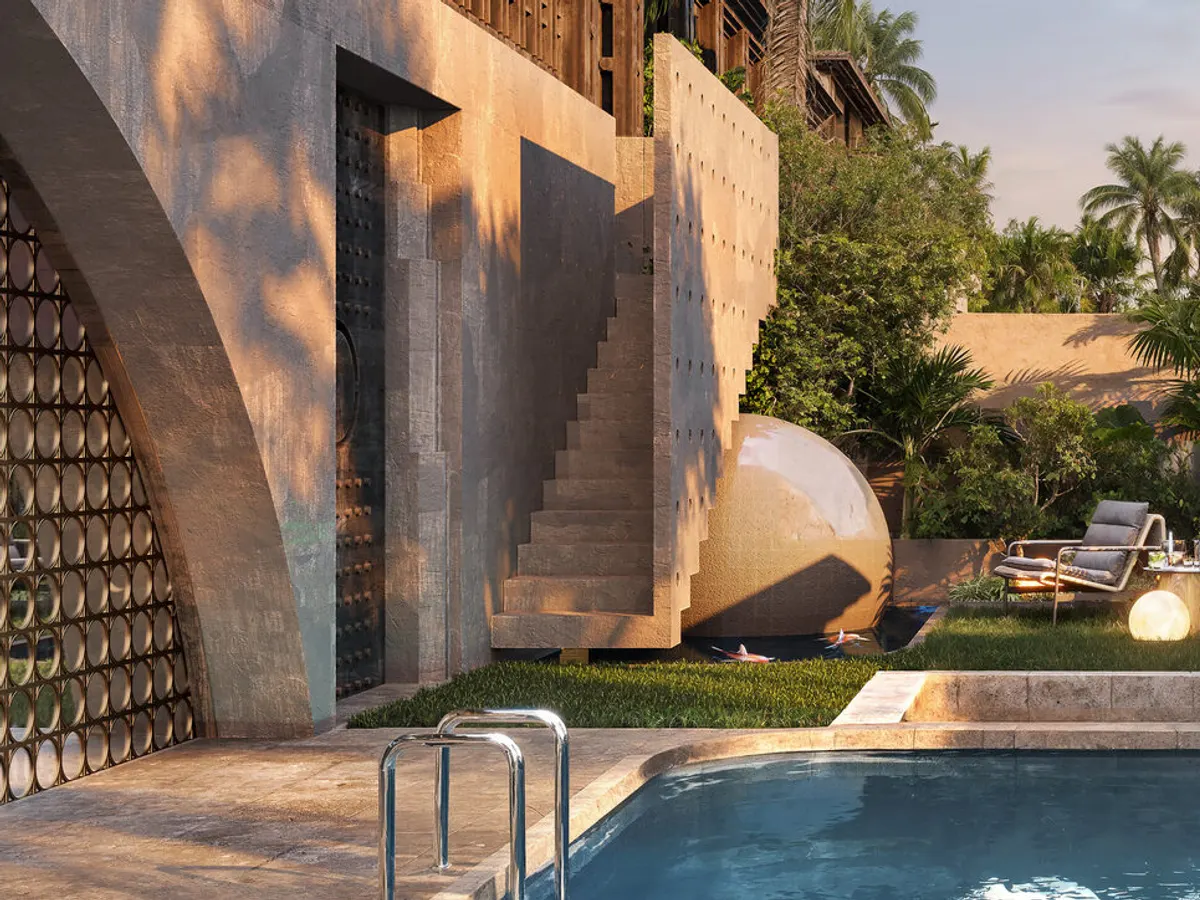
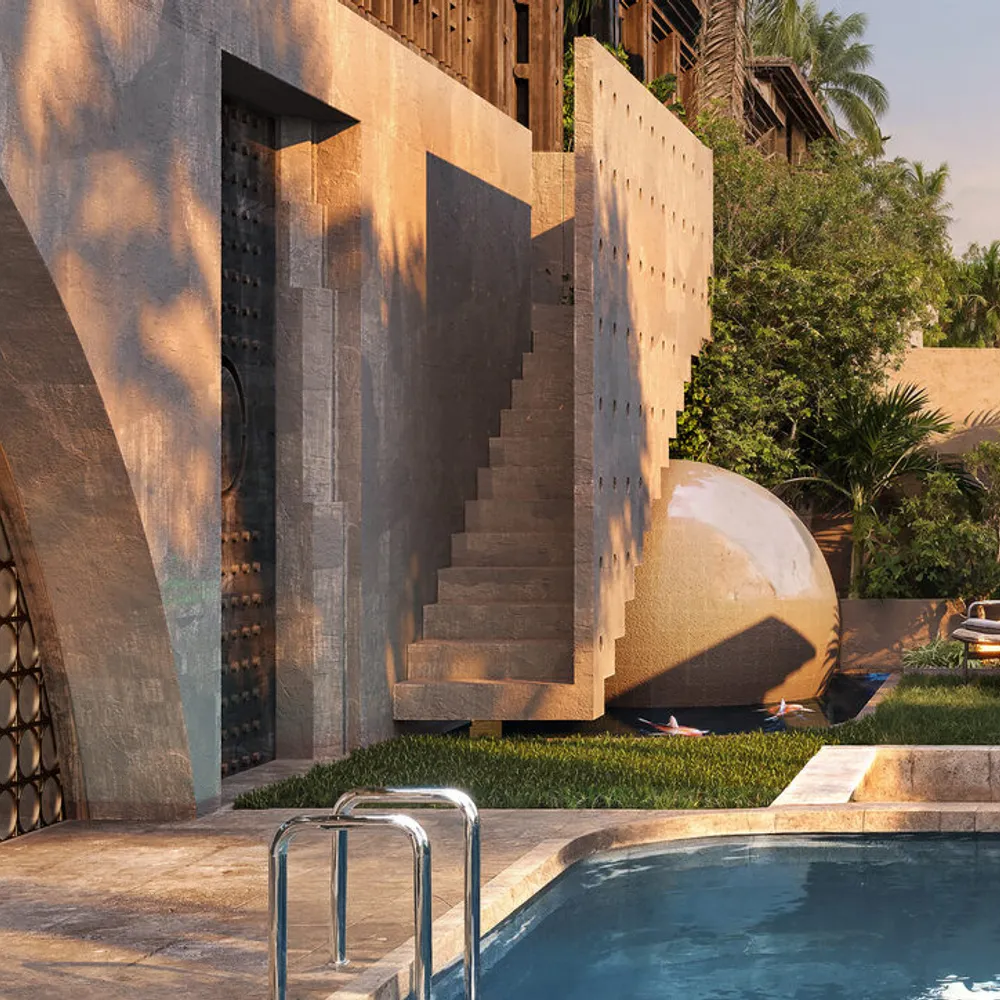
feat(home): bigger listing photos, bullet points, Enquire button, The Ease render

diff --git a/src/styles/global.css b/src/styles/global.css
@@ -527,15 +527,10 @@ a:focus-visible{outline:2px solid rgba(180,80,42,0.55);outline-offset:3px;border
   transition:transform .35s var(--ease),border-color .35s,box-shadow .35s;
 }
 .listing-card:hover{transform:translateY(-8px);border-color:rgba(180,80,42,0.4);box-shadow:0 28px 56px -20px rgba(122,82,32,0.45)}
-.listing-media{position:relative;aspect-ratio:4/3;overflow:hidden;background:#3d1c10}
+.listing-media{position:relative;aspect-ratio:1/1;overflow:hidden;background:#3d1c10}
 .listing-media img{width:100%;height:100%;object-fit:cover;transition:transform .6s var(--ease)}
 .listing-card:hover .listing-media img{transform:scale(1.05)}
 .listing-media::after{content:"";position:absolute;inset:0;background:linear-gradient(to top,rgba(30,21,9,0.5),transparent 45%);pointer-events:none}
-.listing-media-empty{
-  width:100%;height:100%;display:flex;align-items:center;justify-content:center;
-  background:linear-gradient(135deg,#6b3624 0%,#5c2e1f 50%,#3d1c10 100%);
-}
-.listing-media-empty span{font-family:var(--font-display);font-size:2rem;color:rgba(232,201,126,0.55)}
 .listing-rank{
   position:absolute;top:14px;left:14px;z-index:1;
   font-family:var(--font-display);font-weight:600;font-size:1rem;
@@ -547,17 +542,20 @@ a:focus-visible{outline:2px solid rgba(180,80,42,0.55);outline-offset:3px;border
   font-size:.72rem;font-weight:600;letter-spacing:.18em;text-transform:uppercase;color:#FFF8EC;
 }
 .listing-body{display:flex;flex-direction:column;gap:10px;padding:22px 22px 24px;flex:1}
-.listing-dev{font-size:.75rem;font-weight:600;letter-spacing:.14em;text-transform:uppercase;color:var(--accent)}
 .listing-body h3{font-size:1.25rem}
 .listing-price{font-family:var(--font-display);font-size:1.5rem;font-weight:600;color:var(--terra-deep);line-height:1.2}
 .listing-price span{display:block;font-family:var(--font-body);font-size:.78rem;font-weight:500;color:var(--text-muted);margin-top:2px}
 .listing-specs{list-style:none;display:flex;flex-wrap:wrap;gap:6px}
 .listing-specs li{font-size:.74rem;padding:4px 10px;border-radius:999px;background:rgba(122,92,52,0.08);border:1px solid var(--glass-border);color:var(--text)}
-.listing-take{font-size:.84rem;color:var(--text-muted);line-height:1.55;flex:1}
-.listing-take strong{color:var(--text);font-weight:600}
-.listing-ask{display:inline-flex;align-items:center;gap:8px;font-weight:600;font-size:.9rem;color:var(--terra);margin-top:4px}
-.listing-ask svg{transition:transform .25s var(--ease)}
-.listing-ask:hover svg{transform:translateX(4px)}
+.listing-points{list-style:none;display:flex;flex-direction:column;gap:6px;flex:1;font-size:.86rem;color:var(--text-muted);line-height:1.45}
+.listing-points li{position:relative;padding-left:16px}
+.listing-points li::before{content:"";position:absolute;left:0;top:.55em;width:6px;height:6px;border-radius:50%;background:var(--terra)}
+.listing-ask{
+  display:flex;align-items:center;justify-content:center;margin-top:8px;padding:12px 20px;border-radius:999px;
+  font-weight:600;font-size:.9rem;background:var(--grad-gold);color:#FFF8EC;
+  box-shadow:0 8px 24px -10px rgba(180,80,42,0.5);transition:transform .25s var(--ease),box-shadow .25s var(--ease);
+}
+.listing-ask:hover{transform:translateY(-2px);box-shadow:0 14px 30px -10px rgba(180,80,42,0.65)}
 
 /* ============ DON'T GO DIRECT ============ */
 .go-direct{background:var(--bg-deep);padding:104px 0}
